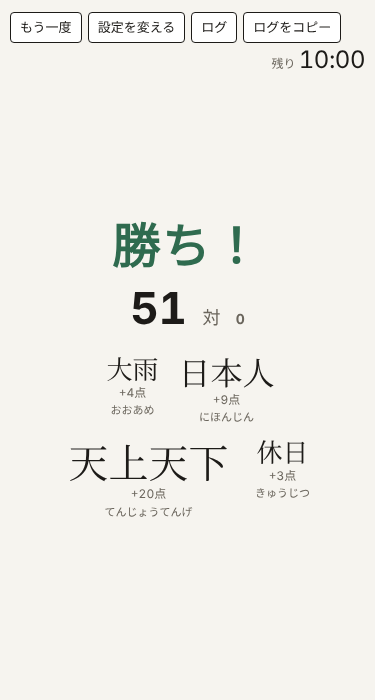
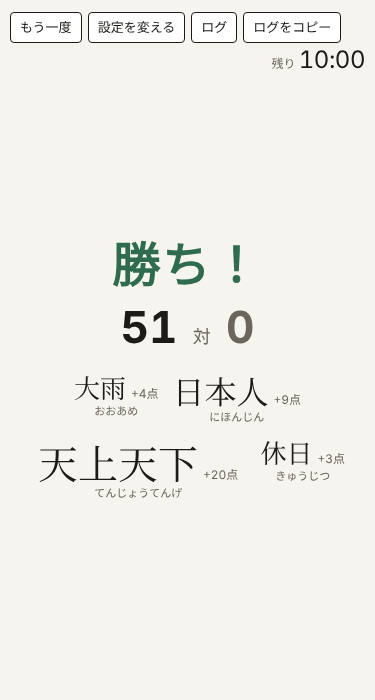
KJ-018 レビュー2回目の直し：点の入れ物の名前が台の .row とぶつかっていたのを直す・画像の撮り直し・関係ない行を消す・上の帯が面の上から押せるテスト
Claude-Session: https://claude.ai/code/session_01CHAiRUMsiX6ZYaapZwpy5F

diff --git a/index.html b/index.html
@@ -204,7 +204,7 @@ body.tutorial #clock,body.tutorial #again,body.tutorial #bLog,body.tutorial #bCo
 #esWords{list-style:none;margin:10px 0 auto;padding:0;display:flex;flex-wrap:wrap;gap:10px 14px;justify-content:center;max-width:620px}
 .esw{display:flex;flex-direction:column;align-items:center;min-width:64px;opacity:0;visibility:hidden}
 .esw .w{font-family:var(--kanji);line-height:1.15}
-.esw .row{display:flex;align-items:baseline;gap:5px}
+.esw .wr{display:flex;align-items:baseline;gap:5px}
 .esw .k{font-size:11px;color:var(--sub)}
 .esw .p{font-size:12px;font-variant-numeric:tabular-nums;color:var(--sub)}
 .esw.t1 .w{font-size:26px}
@@ -613,7 +613,7 @@ function showEnd(winner){
   const ul=$("esWords");ul.innerHTML="";
   const items=d.items.map(it=>{
     const li=document.createElement("li");li.className=`esw t${it.tier}`;
-    li.innerHTML=`<span class="row"><span class="w"></span><span class="p"></span></span><span class="k"></span>`;
+    li.innerHTML=`<span class="wr"><span class="w"></span><span class="p"></span></span><span class="k"></span>`;
     li.querySelector(".w").textContent=it.text;li.querySelector(".p").textContent=`+${it.pts}点`;li.querySelector(".k").textContent=it.kana;
     ul.appendChild(li);return li});
   ES={items,timers:[],done:false};
